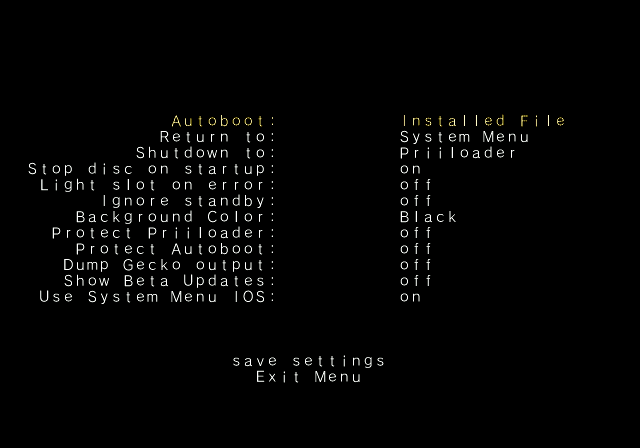
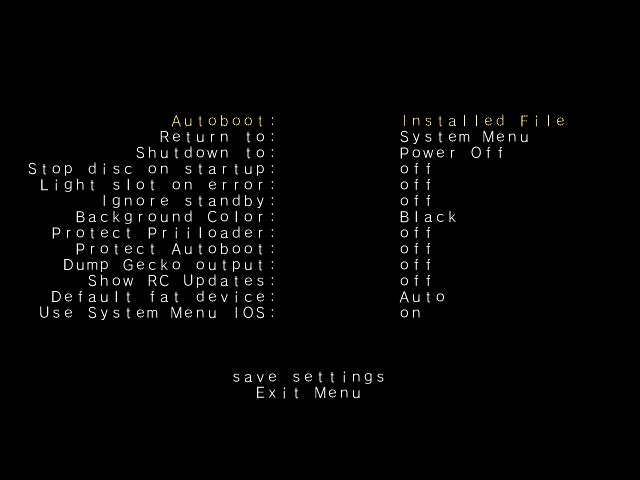
priiloader for vwii

Changed region(s): [[0.0312, 0.25, 0.4375, 0.6875], [0.625, 0.25, 0.9062, 0.6875], [0.3438, 0.7812, 0.625, 0.875]]

diff --git a/_pages/en_US/priiloader.md b/_pages/en_US/priiloader.md
@@ -15,80 +15,110 @@ Priiloader adds a level of brick protection to your Wii. It loads before the Wii
 
 ![Installing Priiloader](/images/Priiloader/priiloader.jpg)
 
-Do **not** install Priiloader on a vWii (Wii mode on Wii U). You will brick your vWii by doing this.
-{: .notice--warning}
+{% capture notice-vwii-priiloader %}
+Priiloader 0.10.0 introduces vWii support! <br>
+There are some important things to take note of:
+- To fix the timestamp issues (FORE000006, wrong News Channel update time), you will need to [generate a timestamp fix hack](https://garyodernichts.github.io/priiloader-patch-gen/). More info on the page.
+- Installing a theme after installing Priiloader **will brick your vWii.**
+
+And some things to enhance your vWii experience:
+- [Priiloader Wii U Forwarder](https://github.com/DacoTaco/priiloader/releases/download/0.10.0-RC3/PriiloaderWiiUForwarder.wuhb) to load Priiloader straight from the Wii U Menu. **This only works on Aroma.**
+- [evWii Aroma Plugin](https://github.com/GaryOderNichts/evwii/releases) to enhance some extra features for vWii. The features are listed [here](https://github.com/GaryOderNichts/evwii#features).
+{% endcapture %}
+
+<div class="notice--success" markdown="1">{{ notice-vwii-priiloader }} </div>
 
 #### What you need
 
 - An SD card or USB drive
-- [Priiloader installer](https://github.com/DacoTaco/priiloader/releases/download/0.9.1/Priiloader_v0_9_1.zip)
+- [Priiloader installer](https://hbb1.oscwii.org/hbb/priiloader/priiloader.zip)
+- [LoadPriiloader](https://hbb1.oscwii.org/hbb/LoadPriiloader/LoadPriiloader.zip)
 
 #### Instructions
 
 ##### Section I - Downloading/Installing
 
-1. Download the Priiloader installer and extract it to the root of your SD card or USB drive.
+1. Download the Priiloader installer and LoadPriiloader apps.
+1. Extract both apps to the root of your SD card or USB drive.
 
 ##### Section II - Installing Priiloader
 
 1. Launch the Homebrew Channel on your Wii.
-2. Launch the Priiloader installer.
-3. Press the + Button on Wii Remote or the A Button on a GameCube controller.
-   ![Install Priiloader](/images/Priiloader/installer.jpg)
-   ![Installing](/images/Priiloader/installing.jpg)
+1. Launch the Priiloader installer.
+1. Press the + Button on Wii Remote or the A Button on a GameCube controller.
+   ![Install Priiloader](/images/Priiloader/installer.png)
+   ![Installing](/images/Priiloader/installing.png)
+1. Press A to return to the Homebrew Channel.
 
-##### Section III - Entering/Configuring Priiloader
+##### Section III - Entering Priiloader
 
-1. Hold the RESET button while turning on your Wii.
-   - If you are using a Wii mini, plug in a USB keyboard and hold Escape on it while turning it on.
+Priiloader will appear automatically after you install it. Simply exit the Homebrew Channel, and you should see the Priiloader menu:
+   ![Priiloader menu](/images/Priiloader/menu.png)
 
-![Turn on](/images/Priiloader/on.jpg)
-![Hold RESET](/images/Priiloader/reset.jpg)
-
-2. You should see the Priiloader menu.
-   ![Menu](/images/Priiloader/mainmenu.jpg)
-3. Go to `System Menu Hacks`.
-
-If you are using a USB drive to install Priiloader, make sure you do not have an SD card inserted at the same time.
-This will cause Priiloader to be unable to find the hacks_hash.ini file.
-{: .notice--info}
-
-4. We recommend you turn on the following hacks: `Region Free EVERYTHING`, `Block Disc Updates` and `Block Online Updates`.
-   ![System Menu Hacks](/images/Priiloader/hacks.jpg)
-1. Scroll down to `save settings` and press A, then press B to go back to the main menu of Priiloader.
-1. Scroll to `Homebrew Channel` and press A to launch it.
+To enter it later on, simply run the "Load Priiloader" homebrew app. There are also other ways to enter Priiloader:
+- Holding RESET on a Wii while turning it on.
+- Holding the ESC key on a USB keyboard while turning on the console.
 
 ### Configuring Priiloader
 
-#### System Menu Hacks List
+#### System Menu Hacks
 
-This is a list of the hacks you can enable with Priiloader.
+1. Launch the Homebrew Channel, and launch the Load Priiloader app.
+1. Scroll down to `System Menu Hacks` and press `A`.
+   ![System menu hacks](/images/Priiloader/menu_hacks.png)
 
-| Hack                                    | Description                                                                                                                                                                           |
-| --------------------------------------- | ------------------------------------------------------------------------------------------------------------------------------------------------------------------------------------- |
-| Block Disc Updates                      | Removes the "Wii System Update" screen included with some games that forces you to update the system before playing the game.                                                         |
-| Block Online Updates                    | Disables updating your Wii. Updates will fail with error 32007.                                                                                                                       |
-| Auto-Press A at Health Screen           | Automatically presses the A Button to get past the initial "Health and Safety" screen.                                                                                                |
-| Replace Health Screen with Backmenu     | Changes the "Health and Safety" screen to the animation played when returning to the Wii Menu.                                                                                        |
-| Move Disc Channel                       | Enables moving the Disc Channel anywhere on the Wii Menu. It's normally stuck in the top left of the first page.                                                                      |
-| Wiimmfi Patch v4                        | Automatically patches all games you run from the Disc Channel for use with Wiimmfi.                                                                                                   |
-| 480p graphics fix in system menu        | Fixes a small issue with 480p on the Wii Menu.                                                                                                                                        |
-| Remove NoCopy Save File Protection      | Allows you to copy normally disallowed save files to your SD card from Data Management                                                                                                |
-| Region Free EVERYTHING                  | Disables region locking for any Wii application, including downloaded ones.                                                                                                           |
-| No System Menu Sounds AT ALL            | Disables all the Wii Menu sound effects.                                                                                                                                              |
-| No System Menu Background Music         | Disables the Wii Menu background music.                                                                                                                                               |
-| Re-Enable Bannerbomb v2                 | Enables the "Bannerbomb" exploit on the latest Wii version. Not needed when the Homebrew Channel is already installed.                                                                |
-| OSReport to UsbGecko(slot B)            | Sends Wii Menu logs to a debugging device in memory card slot B.                                                                                                                      |
-| OSReport to UsbGecko(GeckoOS,B)         | Sends Wii Menu logs to a debugging device in memory card slot B, if the Wii Menu is launched by Gecko OS.                                                                             |
-| Force Standard Recovery Mode            | Automatically launches the console in recovery mode. Used to launch recovery discs, letting users unbrick their Wii systems.                                                          |
-| Remove Diagnostic Disc Check            | Removes a check in the Wii to see if an inserted game matches the title ID of the "Wii Startup Disc".                                                                                 |
-| No-Delete HAXX,JODI,DVDX,DISC,DISK,RZDx | Re-enable channels with these title IDs (originally blocked in system updates due to them being exploits).                                                                            |
-| Force Disc Games to run under IOS249    | Make discs use cIOS 249 as the game's IOS. While it cannot allow playing of burned games on its own, it is needed to play burned discs. (Can give you Error 002 on a non-burned game) |
-| Remove Deflicker                        | Removes the deflicker filter and makes the Wii Menu appear clearer.                                                                                                                 |
+If you have put the Priiloader installer on your USB drive, make sure you do not have an SD card inserted at the same time. <br>
+This causes Priiloader to fail to find the `hacks_hash.ini` file.
+{: .notice--warning}
+
+1. Press `A` on each hack you would like to enable.<br>
+We reccommend that you enable `Block Disc Updates`, `Block Online Updates`, and `Region Free EVERYTHING`.
+   ![System menu hacks list](/images/Priiloader/system_menu_hacks.png)
+1. Scroll down to `save settings` and press `A`.
+1. Press `B` to return to the main menu.
+
+<details id="system-menu-hacks-list" class="notice--info" markdown="1">
+<summary><a>Click here for a full list of available System menu hacks.</a></summary>
+
+| Hack										| Description																																											|
+| ----------------------------------------- | ------------------------------------------------------------------------------------------------------------------------------------------------------------------------------------- |
+| Block Disc Updates						| Removes the "Wii System Update" screen included with some games that forces you to update the system before playing the game.															|
+| Block Online Updates						| Disables updating your Wii. Updates will fail with error 32007.																														|
+| Auto-Press A at Health Screen				| Automatically presses the A Button to get past the initial "Health and Safety" screen.																								|
+| Replace Health Screen with Backmenu		| Changes the "Health and Safety" screen to the animation played when returning to the Wii Menu.																						|
+| Move Disc Channel							| Enables moving the Disc Channel anywhere on the Wii Menu. It's normally stuck in the top left of the first page.																		|
+| Wiimmfi Patch v4							| Automatically patches all games you run from the Disc Channel for use with Wiimmfi.																									|
+| 480p graphics fix in system menu			| Fixes a small issue with 480p on the Wii Menu.																																		|
+| Remove NoCopy Save File Protection		| Allows you to copy normally disallowed save files to your SD card from Data Management																								|
+| Region Free EVERYTHING					| Disables region locking for any Wii application, including downloaded ones.																											|
+| ~~No System Menu Sounds AT ALL~~			| ~~Disables all the Wii Menu sound effects.~~ Currently broken.																														|
+| No System Menu Background Music			| Disables the Wii Menu background music.																																				|
+| Re-Enable Bannerbomb v2					| Enables the "Bannerbomb" exploit on the latest Wii version. Not needed when the Homebrew Channel is already installed.																|
+| OSReport to UsbGecko(slot B)				| Sends Wii Menu logs to a debugging device in memory card slot B.																														|
+| OSReport to UsbGecko(GeckoOS,B)			| Sends Wii Menu logs to a debugging device in memory card slot B, if the Wii Menu is launched by Gecko OS.																				|
+| Force boot into Data Management			| Immediately loads the Wii menu into Data Management.																																	|
+| Force Standard Recovery Mode				| Automatically launches the console in recovery mode. Used to launch recovery discs, letting users unbrick their Wii systems.															|
+| Remove Diagnostic Disc Check				| Removes a check in the Wii to see if an inserted game matches the title ID of the "Wii Startup Disc".																					|
+| No-Delete HAXX,JODI,DVDX,DISC,DISK,RZDx	| Re-enable channels with these title IDs (originally blocked in system updates due to them being exploits).																			|
+| Force Disc Games to run under IOS249		| Make discs use cIOS 249 as the game's IOS. While it cannot allow playing of burned games on its own, it is needed to play burned discs. (Can give you Error 002 on a non-burned game)	|
+| Remove Deflicker							| Removes the deflicker filter and makes the Wii Menu appear clearer.																													|
+| Block Disc Autoboot						| This prevents the Wii from instantly launching discs with title IDs starting with 0 or 1 (0x30, 0x31).																				|
+| Allow TitleID RAAE, 408x, 410x			| Allows the Wii Menu to read the discs with the title IDs RAAE (Wii Startup Disc), 408x and 410x (Wii Backup Disc)																		|
+| Remove IOS16 Disc Error					| Allows the Wii Menu to launch discs (this is only the Wii Backup Disc) that use IOS16.																								|
+| Mark Network Connection as Tested			| Enables the `Use This Connection` button in the Internet connection settings, regardless of the results of the last connection test.													|
+| Always enable WiiConnect24 for vWii		| Enables WiiConnect24 & Standby Connection every time the Wii menu starts. **Requires a reboot after enabling.**																		|
+| Create message via Calendar button (vWii)	| Clicking on the Calendar button opens the Create Message menu instead of the Calendar, allowing the user to create Memos, send messages to, and register Wii friends.					|
+
+</details>
+
+[Continue to the Dos and Don'ts of Wii Modding](dosanddonts)<br>
+These are some guidelines to ensure you don't brick your Wii.
+{: .notice--info}
+
 
 #### Autobooting with Priiloader
 
-Priiloader allows you to automatically boot to the Homebrew Channel, an individual homebrew application, or Priiloader itself.
+Priiloader allows you to automatically boot to the Homebrew Channel, an individual homebrew application, or Priiloader itself. This is optional.
 
 ##### Autobooting a Homebrew application 
 
@@ -105,22 +135,19 @@ You will be installing `uneoboot.dol` in step 3.
 
 <div class="notice--warning"> {{ UNEO | markdownify }} </div>
 
-1. Enter Priiloader by holding RESET when turning on your Wii.
-  - If you are using a Wii Mini, plug in a USB keyboard and hold Escape while turning it on.
-![Turn on](/images/Priiloader/on.jpg)
-![Hold RESET](/images/Priiloader/reset.jpg)
+1. Launch the Homebrew channel, then launch the Load Priiloader app.
 1. Scroll down to `Load/Install file` and press A.
-![Load/Install file](/images/Priiloader/menu_install_file.png)
+   ![Load/Install file](/images/Priiloader/menu_install_file.png)
 1. Scroll through the menu until your desired homebrew app is highlighted, and press A to install it.
-![Installing a Homebrew app](/images/Priiloader/installing_file.png)
-![Installing a Homebrew app OK](/images/Priiloader/installing_file_ok.png)
+   ![Installing a Homebrew app](/images/Priiloader/installing_file.png)
+   ![Installing a Homebrew app OK](/images/Priiloader/installing_file_ok.png)
 1. Press B to go back to the main menu.
 1. Scroll down to `Settings` and press A.
-![Settings](/images/Priiloader/menu_settings.png)
+   ![Settings](/images/Priiloader/menu_settings.png)
 1. Press Right to cycle through the Autoboot options until `Installed file` is selected.
-![Autoboot: Installed File](/images/Priiloader/autoboot_installed_file.png)
+   ![Autoboot: Installed File](/images/Priiloader/autoboot_installed_file.png)
 1. Scroll down to `save settings` and press A.
-![Saving settings](/images/Priiloader/settings_save.png)
+   ![Saving settings](/images/Priiloader/settings_save.png)
 1. Press B to return to the main menu.
 1. Scroll back up to `System Menu` and press A.
 
@@ -128,24 +155,18 @@ Your Wii should now automatically boot to whichever homebrew app you installed.
 
 ##### Autobooting the Homebrew Channel or Priiloader
 
-1. Enter Priiloader by holding RESET when turning on your Wii.
-  - If you are using a Wii Mini, plug in a USB keyboard and hold Escape while turning it on.
-![Turn on](/images/Priiloader/on.jpg)
-![Hold RESET](/images/Priiloader/reset.jpg)
+1. Launch the Homebrew Channel, then launch the Load Priiloader app.
 1. Scroll down to `Settings` and press A.
-![Settings](/images/Priiloader/menu_settings.png)
+   ![Settings](/images/Priiloader/menu_settings.png)
 1. Press Right to cycle through the Autoboot options until your desired option is selected. <br>
 `Disabled` will autoboot to the Priiloader menu.
 
 Please don't set Autoboot to `BootMii IOS`. You will get stuck in a loop until you continuously hold the RESET button to enter the Priiloader menu.
 {: .notice--warning}
 
-![Autoboot](/images/Priiloader/autoboot_disabled.png)
+   ![Autoboot](/images/Priiloader/autoboot_disabled.png)
 1. Scroll down to `save settings` and press A.
-![Saving settings](/images/Priiloader/settings_save.png)
+   ![Saving settings](/images/Priiloader/settings_save.png)
 1. Press B to return to the main menu.
 1. Scroll back up to `System Menu` and press A.
 
-[Continue to the Dos and Don'ts of Wii Modding](dosanddonts)<br>
-These are some guidelines to ensure you don't brick your Wii.
-{: .notice--info}

diff --git a/_pages/en_US/riiconnect24-vwii.md b/_pages/en_US/riiconnect24-vwii.md
@@ -43,16 +43,22 @@ Do **NOT** perform this guide on any other console than the vWii (Virtual Wii on
 
 * An SD card or USB drive
 * A computer
-* A Wii U console with an Internet connection that's capable of launching the Homebrew Launcher (either via the web browser exploit, Haxchi or Coldboot Haxchi). **If you do not have a softmodded Wii U console, please follow [wiiuguide.xyz](https://wiiuguide.xyz), as well as [the virtual Wii modding guide](https://wiiuguide.xyz/#/vwii-modding) and then come back.**
+* A Wii U with [the vWii modded](https://wiiu.hacks.guide/#/vwii-modding). **This guide requires the latest CFW on your Wii U.**
+* [Priiloader](priiloader) installed
+* [Load Priiloader](https://hbb1.oscwii.org/hbb/LoadPriiloader/LoadPriiloader.zip)
 * A Nintendo Network ID (NNID) linked to your Wii U
 * [RiiConnect24 Patcher (Windows, Mac and Linux)](https://github.com/RiiConnect24/RiiConnect24-Patcher/releases)
+* [RiiConnect24 Mail Patcher](https://hbb1.oscwii.org/hbb/Mail-Patcher/Mail-Patcher.zip)
 
-After following the above linked guide, you should have:
+{% capture notice-2 %}
+After following the vWii modding guide linked above, you should have:
 * A vWii NAND backup and keys (keep these stored safely!!)
 * The Homebrew Channel installed
 * d2x cIOS installed (IOS249, IOS250 and IOS251)
 * IOS80 patched
-{: .notice--info}
+{% endcapture %}
+
+<div class="notice" markdown="1">{{ notice-2 }}</div>
 
 #### Instructions
 
@@ -99,21 +105,21 @@ You will now install the patched IOS and Channel WADs that are required to use R
 6. If you get an error saying a title with a higher version is already installed (error -1035), go back to the WAD selection menu and press the - Button on the highlighted WAD to uninstall it, then try installing it again.
 7. After they are successfully installed, press the HOME Button to exit back to the Homebrew Channel.
 
-##### Section III - Patching 43db for 16:9 (optional)
+##### Section III - Patching Wii Mail
 
-1. Launch ww-43db-patcher and wait for it to complete.
-
-If you [install a theme](/themes-vwii), you will have to run the ww-43db-patcher once more.
-{: .notice--info}
+1. Download and extract the RiiConnect24 Mail Patcher to the root of your SD card or USB drive.
+1. Launch the Homebrew Channel on your Wii U and launch the RiiConnect24 Mail Patcher.
+1. It should only take a few seconds to patch. Once it's done, press HOME to exit.
 
 ##### Section IV - Using RiiConnect24
 
-After following the above sections, you're almost ready to utilize RiiConnect24 on your Wii U. You just need to perform the following steps **every time you boot into vWii**.
-
-1. On the **Wii Menu**, launch the **ConnectMii** channel.
-* This will enable the WiiConnect24 and Standby Connection flags required by the WiiConnect24 Channels.
-2. Launch the WiiConnect24 Channels.
-* You should now be able to utilize all of the WiiConnect24 Channels you have installed.
+1. Launch the Homebrew Channel, then launch `Load Priiloader`.
+1. In the Priiloader menu, go to `System Menu Hacks`.
+![System menu hacks](/images/Priiloader/system_menu_hacks.png)
+1. Scroll through the list until you see `Always enable WiiConnect24 for vWii` and `Create message via Calendar button`, and press `A` on both to enable them.
+1. Scroll down to `save settings`, press `A`, then press `B` to go back.
+1. Select `System Menu.`
+1. Return to the Wii U Menu, then go right back to Wii Mode.
 
 #### What's currently working?
 The following RiiConnect24 services are **working** on the vWii:
@@ -122,11 +128,8 @@ The following RiiConnect24 services are **working** on the vWii:
 * Everybody Votes Channel
 * Nintendo Channel
 * Check Mii Out Channel / Mii Contest Channel
+* Wii Mail (requires Priiloader's `Create message via Calendar button` hack)
 {: .notice--success}
-
-The following RiiConnect24 services are **not working** on the vWii:
-* Wii Mail (most functionality does not exist on vWii)
-    * This includes sending/receiving mail to/from friends.
 
 Most services that utilize WiiConnect24 will be able to work if you leave vWii running for several hours. There's no standby mode on the console.
 {: .notice--warning}
